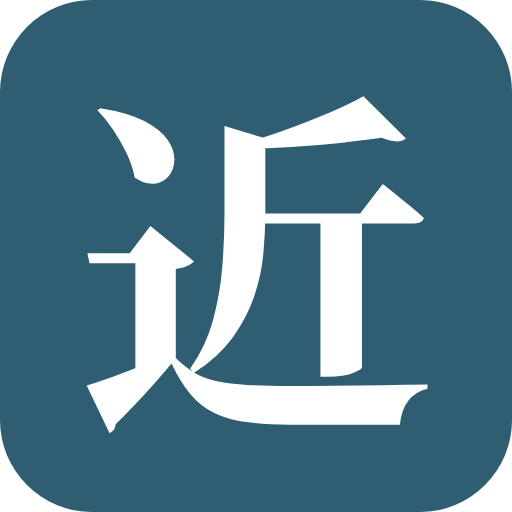
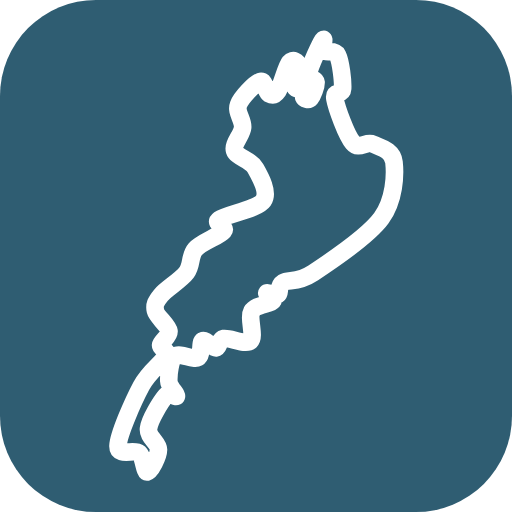
feat: ファビコンを琵琶湖の細い線画にし、フッターに地図データの出典を入れる
- 「近」の文字アイコンをやめ、濃い青緑に白の細い線で琵琶湖の輪郭を描く
- 輪郭は OpenStreetMap の湖岸線（203点）を scripts/biwa-outline.py で 64x64 に縮め、
  間引いてなめらかにしたもの。48px 以上は湖岸を細かく、32px 以下は単純な輪郭、16px は線を太く
- favicon.ico（16/32/48px）・icon.png（512px）・apple-icon.png（180px）を作り直す
- ODbL のため、フッターに「アイコンの琵琶湖の形：© OpenStreetMap contributors」を入れる

diff --git a/scripts/icon.html b/scripts/icon.html
@@ -3,31 +3,35 @@
 <head>
 <meta charset="utf-8">
 <title>アイコン 近江Web相談所</title>
-<link href="https://fonts.googleapis.com/css2?family=Noto+Serif+JP:wght@700&display=block" rel="stylesheet">
 <style>
-  /* サイトのアイコン。屋号の頭文字「近」を、サイトの濃い青緑（--teal-deep）の上に白の明朝で置く。
-     ?s=<px> で一辺の大きさ、&square=1 で角丸なし（iPhone のホーム画面用。角は端末側で丸められる） */
+  /* サイトのアイコン。琵琶湖の輪郭を、サイトの濃い青緑（--teal-deep）の上に白の細い線で描く。
+     ?s=<px> で一辺の大きさ、&square=1 で角丸なし（iPhone のホーム画面用。角は端末側で丸められる）。
+     輪郭は OpenStreetMap の湖岸線から scripts/biwa-outline.py で作ったもの（© OpenStreetMap contributors, ODbL）。
+     48px 以上は湖岸を細かく、32px 以下は単純な輪郭にし、16px では線を太くして形が消えないようにする */
   * { margin: 0; padding: 0; }
   html, body { background: transparent; }
-  .icon {
-    display: flex; align-items: center; justify-content: center;
-    background: #2f5d72; color: #fff;
-    font-family: 'Noto Serif JP', serif; font-weight: 700; line-height: 1;
-  }
+  svg { display: block; }
 </style>
 </head>
 <body>
-  <div class="icon" id="icon">近</div>
+  <svg id="icon" viewBox="0 0 64 64" aria-hidden="true">
+    <rect id="bg" width="64" height="64" rx="12" fill="#2f5d72"/>
+    <path id="lake" fill="none" stroke="#fff" stroke-linejoin="round"/>
+  </svg>
   <script>
+    const LAKE = {
+      fine: "M18.43 59.00 C18.83 58.93 19.79 57.12 19.81 56.21 C19.84 55.30 18.42 54.67 18.57 53.55 C18.72 52.44 20.12 50.18 20.70 49.51 C21.28 48.83 21.99 49.82 22.06 49.50 C22.12 49.19 21.13 48.46 21.10 47.63 C21.07 46.80 21.26 45.01 21.87 44.52 C22.47 44.03 24.16 45.04 24.74 44.71 C25.31 44.39 24.96 42.80 25.33 42.59 C25.71 42.39 26.55 43.54 26.99 43.49 C27.43 43.44 27.27 42.46 27.99 42.31 C28.71 42.17 30.73 43.17 31.31 42.61 C31.89 42.04 31.02 39.75 31.48 38.92 C31.94 38.10 33.76 38.02 34.07 37.64 C34.39 37.26 33.25 36.77 33.36 36.63 C33.47 36.50 34.40 37.03 34.74 36.82 C35.08 36.60 34.67 35.77 35.40 35.32 C36.14 34.87 37.12 35.44 39.16 34.10 C41.20 32.76 45.97 29.59 47.66 27.29 C49.34 24.99 49.42 21.83 49.25 20.28 C49.08 18.74 47.48 18.43 46.62 18.02 C45.76 17.62 44.89 18.78 44.10 17.84 C43.30 16.90 42.08 13.52 41.87 12.39 C41.66 11.26 42.77 11.98 42.83 11.07 C42.88 10.15 42.60 7.70 42.21 6.91 C41.82 6.13 40.81 6.66 40.50 6.34 C40.19 6.02 40.67 4.54 40.35 5.00 C40.04 5.46 38.74 8.22 38.60 9.10 C38.46 9.98 39.47 9.75 39.51 10.28 C39.54 10.80 39.08 11.96 38.82 12.27 C38.56 12.58 38.05 12.37 37.95 12.13 C37.85 11.88 38.39 10.98 38.22 10.78 C38.05 10.58 37.07 11.37 36.91 10.94 C36.76 10.51 37.43 8.71 37.31 8.20 C37.19 7.68 36.61 7.31 36.18 7.83 C35.76 8.36 35.18 10.71 34.75 11.36 C34.32 12.00 33.97 11.90 33.59 11.70 C33.22 11.51 33.14 9.95 32.51 10.18 C31.88 10.41 30.17 12.13 29.81 13.09 C29.45 14.05 30.41 14.97 30.33 15.93 C30.25 16.88 29.06 17.98 29.32 18.82 C29.58 19.66 31.30 19.94 31.90 20.98 C32.49 22.03 33.65 24.01 32.91 25.09 C32.17 26.16 28.28 26.79 27.45 27.42 C26.62 28.05 28.43 28.27 27.93 28.89 C27.42 29.51 25.19 30.27 24.42 31.13 C23.66 32.00 24.04 33.11 23.32 34.07 C22.61 35.03 20.77 36.10 20.12 36.90 C19.47 37.70 19.26 38.12 19.43 38.86 C19.60 39.61 21.02 40.66 21.12 41.37 C21.23 42.08 20.14 42.61 20.08 43.13 C20.01 43.65 21.13 43.64 20.73 44.49 C20.32 45.35 18.65 46.38 17.66 48.25 C16.66 50.12 14.79 54.34 14.75 55.74 C14.71 57.14 16.78 56.11 17.40 56.65 C18.01 57.20 18.03 59.07 18.43 59.00 Z",
+      coarse: "M18.43 59.00 C19.27 59.08 19.79 57.12 19.81 56.21 C19.84 55.30 18.19 54.67 18.57 53.55 C18.94 52.44 21.51 51.01 22.06 49.50 C22.61 48.00 20.32 45.67 21.87 44.52 C23.41 43.37 29.39 43.92 31.31 42.61 C33.22 41.29 30.64 39.19 33.36 36.63 C36.09 34.08 45.01 30.02 47.66 27.29 C50.31 24.57 49.85 21.86 49.25 20.28 C48.66 18.71 45.58 20.39 44.10 17.84 C42.61 15.30 41.23 5.93 40.35 5.00 C39.47 4.07 39.51 11.79 38.82 12.27 C38.12 12.74 36.86 7.98 36.18 7.83 C35.51 7.68 35.36 10.97 34.75 11.36 C34.14 11.75 33.33 9.89 32.51 10.18 C31.69 10.47 30.34 11.65 29.81 13.09 C29.28 14.53 28.80 16.82 29.32 18.82 C29.83 20.82 33.22 23.65 32.91 25.09 C32.60 26.52 29.58 25.45 27.45 27.42 C25.32 29.39 21.24 34.05 20.12 36.90 C19.00 39.74 21.62 41.35 20.73 44.49 C19.83 47.63 15.13 53.32 14.75 55.74 C14.37 58.16 17.58 58.92 18.43 59.00 Z",
+    };
     const q = new URLSearchParams(location.search);
     const s = Number(q.get("s") || 512);
-    const el = document.getElementById("icon");
-    el.style.width = el.style.height = s + "px";
-    // 小さいサイズほど字を大きめにして、16px でも形が潰れないようにする
-    el.style.fontSize = Math.round(s * (s <= 32 ? 0.84 : 0.7)) + "px";
-    el.style.paddingBottom = Math.round(s * 0.04) + "px";
-    el.style.boxSizing = "border-box";
-    el.style.borderRadius = q.get("square") ? "0" : Math.round(s * 0.18) + "px";
+    const svg = document.getElementById("icon");
+    svg.setAttribute("width", s);
+    svg.setAttribute("height", s);
+    if (q.get("square")) document.getElementById("bg").setAttribute("rx", "0");
+    const lake = document.getElementById("lake");
+    lake.setAttribute("d", s >= 48 ? LAKE.fine : LAKE.coarse);
+    lake.setAttribute("stroke-width", s <= 16 ? 4.2 : 2.2);
   </script>
 </body>
 </html>

diff --git a/src/app/page.tsx b/src/app/page.tsx
@@ -400,7 +400,19 @@ export default function Home() {
       </main>
 
       <footer className="bg-teal-deep pb-8 text-center text-xs text-white/60">
-        © 2026 {site.shopName} / {site.nameEn}
+        <p>© 2026 {site.shopName} / {site.nameEn}</p>
+        {/* アイコンの琵琶湖の輪郭は OpenStreetMap の湖岸線から作った（ODbL のため出典を書く） */}
+        <p className="mt-2 text-[11px]">
+          アイコンの琵琶湖の形：
+          <a
+            href="https://www.openstreetmap.org/copyright"
+            target="_blank"
+            rel="noopener noreferrer"
+            className="underline hover:text-white"
+          >
+            © OpenStreetMap contributors
+          </a>
+        </p>
       </footer>
     </>
   );

diff --git a/scripts/biwa-outline.py b/scripts/biwa-outline.py
@@ -1,0 +1,64 @@
+# OpenStreetMap の琵琶湖の湖岸線から、scripts/icon.html に埋め込む輪郭（SVG の path）を作る。
+# 地図データ © OpenStreetMap contributors（ODbL）。使うときはサイトに出典を書く（フッターに記載済み）。
+#
+# 1. 湖岸線を取る（Nominatim。1回だけ・連絡先入りの User-Agent で）:
+#    curl -s -A "shosei-ueda.com (shosei@shosei-ueda.com)" "https://nominatim.openstreetmap.org/search?q=%E7%90%B5%E7%90%B6%E6%B9%96&format=json&limit=3&polygon_geojson=1&polygon_threshold=0.002" -o biwa.json
+# 2. python -I scripts/biwa-outline.py biwa.json biwa_path.json
+# 3. biwa_path.json の fine / coarse を scripts/icon.html の LAKE に貼る
+
+import json, sys, math
+src, dst = sys.argv[1], sys.argv[2]
+d = json.load(open(src, encoding="utf-8"))
+rings = d[0]["geojson"]["coordinates"]
+outer = rings[0]
+lat0, lat1 = min(p[1] for p in outer), max(p[1] for p in outer)
+lon0, lon1 = min(p[0] for p in outer), max(p[0] for p in outer)
+H = 54.0
+k = H / (lat1 - lat0)
+kx = k * math.cos(math.radians((lat0 + lat1) / 2))
+w = (lon1 - lon0) * kx
+ox, oy = (64 - w) / 2, (64 - H) / 2
+P = lambda p: (ox + (p[0] - lon0) * kx, oy + (lat1 - p[1]) * k)
+pts = [P(p) for p in outer]
+if pts[0] == pts[-1]:
+    pts = pts[:-1]
+
+def dp(pts, eps):
+    if len(pts) < 3:
+        return pts
+    (x1, y1), (x2, y2) = pts[0], pts[-1]
+    L = math.hypot(x2 - x1, y2 - y1) or 1e-9
+    dmax, idx = 0, 0
+    for i in range(1, len(pts) - 1):
+        x0, y0 = pts[i]
+        dd = abs((y2 - y1) * x0 - (x2 - x1) * y0 + x2 * y1 - y2 * x1) / L
+        if dd > dmax:
+            dmax, idx = dd, i
+    if dmax > eps:
+        return dp(pts[: idx + 1], eps)[:-1] + dp(pts[idx:], eps)
+    return [pts[0], pts[-1]]
+
+n = min(range(len(pts)), key=lambda i: pts[i][1])
+s = max(range(len(pts)), key=lambda i: pts[i][1])
+a, b = sorted((n, s))
+h1, h2 = pts[a : b + 1], pts[b:] + pts[: a + 1]
+
+def smooth(q, t=0.5):
+    m = len(q)
+    out = "M%.2f %.2f" % q[0]
+    for i in range(m):
+        p0, p1, p2, p3 = q[i - 1], q[i], q[(i + 1) % m], q[(i + 2) % m]
+        c1 = (p1[0] + (p2[0] - p0[0]) * t / 3, p1[1] + (p2[1] - p0[1]) * t / 3)
+        c2 = (p2[0] - (p3[0] - p1[0]) * t / 3, p2[1] - (p3[1] - p1[1]) * t / 3)
+        out += " C%.2f %.2f %.2f %.2f %.2f %.2f" % (c1 + c2 + p2)
+    return out + " Z"
+
+res = {}
+for name, eps in (("fine", 0.7), ("coarse", 1.3)):
+    q = dp(h1, eps)[:-1] + dp(h2, eps)[:-1]
+    res[name] = smooth(q)
+    print(name, len(q), "points")
+isl = [r for r in rings[1:] if abs(sum(p[0] for p in r) / len(r) - 136.143) < 0.01 and abs(sum(p[1] for p in r) / len(r) - 35.422) < 0.01][0]
+res["island"] = P((sum(p[0] for p in isl) / len(isl), sum(p[1] for p in isl) / len(isl)))
+print("width %.1f, island %.1f %.1f" % (w, *res["island"]))
+json.dump(res, open(dst, "w", encoding="utf-8"))
